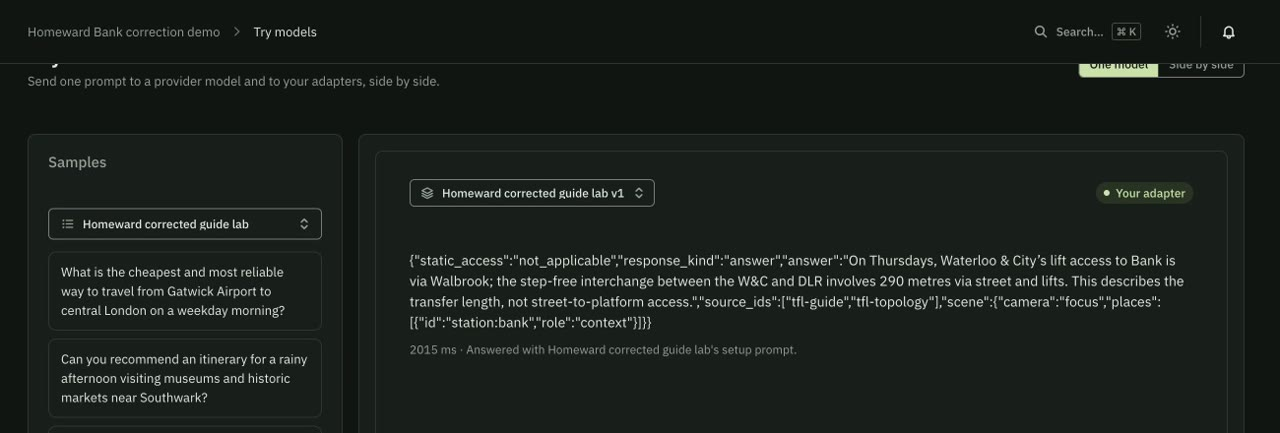
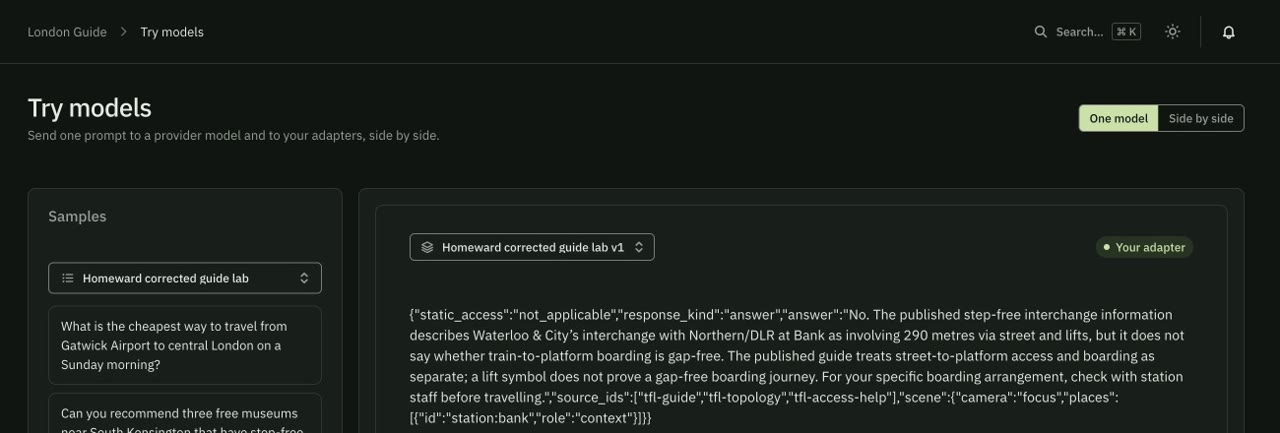
Report the trained model's frozen-question results exactly
The new travel model fully passed one of six frozen development questions
(step-free vs gap-free boarding), nearly passed two and failed three; the
README now says so and leads with that full pass. The older Walbrook answer
is marked partial because it omitted the Monday–Friday limit the rubric
requires. The test screenshot now shows the new model's answer.

diff --git a/README.md b/README.md
@@ -17,7 +17,7 @@ Open in desktop Chrome or Edge (WebGPU required). The full city takes about 20 s
 - **What actually happened (24–25 October 2026):**
   - **Bad corrections are refused.** An edit claiming Bank's Waterloo & City to DLR change is "a short indoor transfer of about 90 metres" was refused, because the sources say 290 metres via the street and lifts. An evidence-backed fix was accepted and sent to Mubit with a receipt.
   - **Mubit trains a model with no ML team.** Once 29 reviewed examples were kept, Mubit trained a **Qwen3-4B adapter on its own, in about 10 minutes**, with no training code.
-  - **That model answers a question it never trained on.** On a question written and frozen before training, it gave the right answer in about 2 seconds: Walbrook lift on weekdays, 290 metres via street and lifts, Bank pinned.
+  - **A trained model answers a question it never saw.** On a question frozen before training, one of our new models answered correctly in about 3 seconds, labelled by Mubit as our adapter running on Mubit Cloud. The question was "does Bank's step-free interchange information say boarding the train is gap-free?" The model said no: the guidance covers a 290-metre street-and-lifts route, not boarding.
   - **Mubit gates every release.** The business model scored 91.7% against an 85% target and Mubit **promoted it to 10% of traffic automatically**. Lower scorers stay in silent testing.
   - **The loop keeps running.** In a fresh project, 109 teaching calls and 80 audited examples produced **two new open models**, travel and business, now graded and held in testing.
 - **Honest status.** The trained models are **not yet better than Luna overall**. The numbers, including the losses, are below.
@@ -120,16 +120,16 @@ All results are dated development observations from 24–25 October 2026, not a 
 | Wrong correction | "A short indoor transfer of about 90 metres" **refused**: the sources say 290 m via the street and lifts. |
 | Evidence-backed correction | **Accepted**, sent to Mubit as a recorded teaching example, receipt returned. |
 | First correction-trained model (Bank task) | 29 reviewed examples kept → Mubit **started training on its own**, adapter ready in about 10 minutes. Mubit exam: 41.7% (5/12). |
-| Same model, frozen question it never saw | **Correct in about 2 s** in Mubit Try models: Walbrook lift on weekdays, 290 m via street and lifts, Bank focused. |
+| Same model, frozen Walbrook question it never saw | About 2 s in Mubit Try models: Walbrook for a Thursday, 290 m via street and lifts, Bank focused. Right for the question asked, but it didn't state the Monday–Friday limit our rubric asks for, so it's a **partial** pass. |
 | Before vs after training, six frozen questions | Fully correct (answer + classification + map): **0/6 → 2/6**. Answers alone: 2/6 → 2/6, with control questions regressing. A targeted gain, not an overall win. |
 | Business model (Enterprise v1) | Mubit exam **91.7%** (target 85%) → Mubit promoted it to 10% of traffic. Our fresh full-format test: 0/6, so the app still uses Luna for business answers. |
 | Fresh project, 24–25 Oct | 109 Luna teaching calls (73 travel, 36 business), 80 audited good examples → **two new Qwen3-4B models**: travel **50%**, business **83.3%**, both held in testing. |
-| New travel model, same frozen question | Facts right, but it used an invalid map role, so not a full pass. |
+| New travel model, all six frozen questions (one attempt each, strict rubric) | **1 full pass**: *"does step-free mean boarding is gap-free?"* (correct, about 3 s, Bank focused). **2 near passes. 3 fails**: an invalid map role, a wrong access classification, and one payment answer that contradicts itself. The demo video's test is the full pass. |
 | Business fit verdicts | Shell **promising**; Google **weak**; Barclays, HSBC, J.P. Morgan, Unilever **conditional**. |
 
 ![Mubit: two new models trained from our corrections](docs/images/guide-mubit-new-models.jpg)
 
-![The trained model answering a frozen question it never saw](docs/images/guide-mubit-test-answer.jpg)
+![One of the new models, running on Mubit Cloud, answering a frozen question it never saw: does step-free mean boarding is gap-free?](docs/images/guide-mubit-test-answer.jpg)
 
 Public evidence in this repo:
 - [Original travel diagnostic](docs/evidence/v1-development-report.json)
